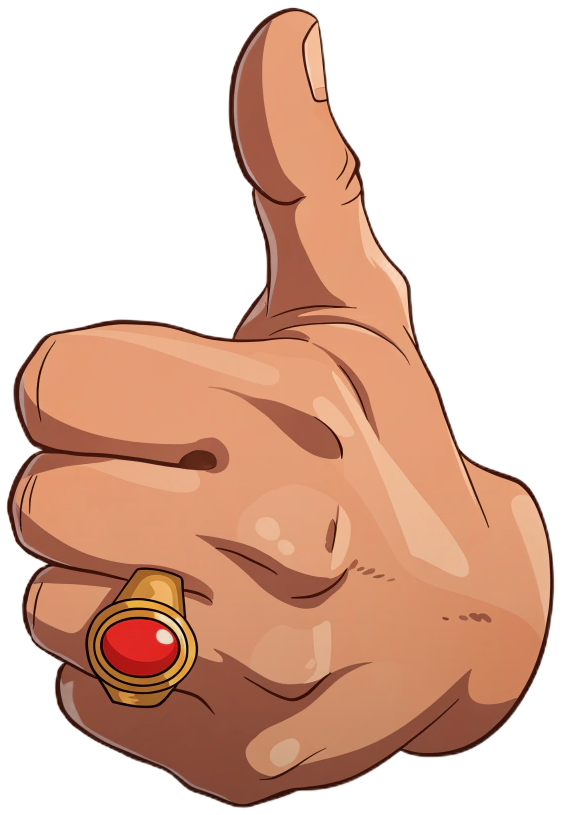
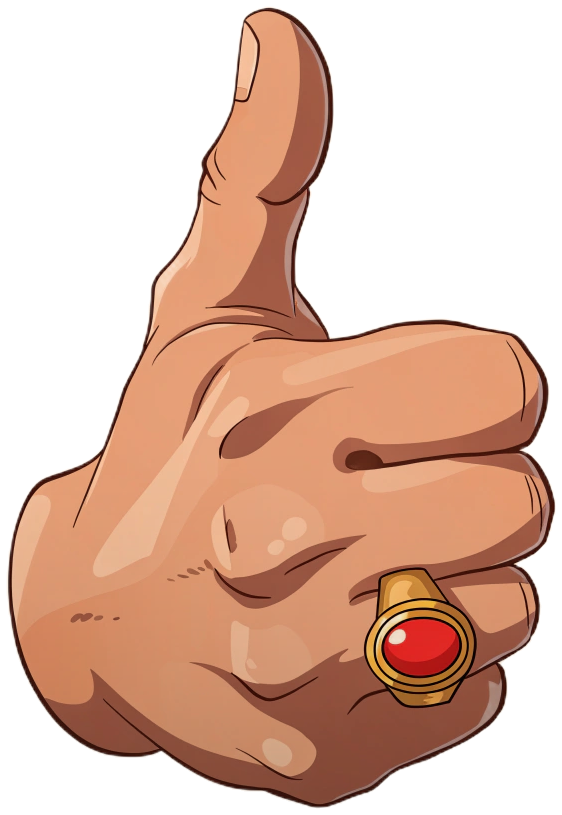
duimscene iets bijgewerkt

diff --git a/judge.js b/judge.js
@@ -9,16 +9,16 @@ const JUDGE = {
   think: 2200,      // ms vanaf de start tot het oordeel valt
   snap: 440,        // ms: duim slaat om
   detail: 800,      // ms na het oordeel: uitslag en knop verschijnen
-  // Twijfel: hoeken (graden) waar de duim langs gaat. -90 is opzij (hand in het verlengde van de arm), 0 omhoog, -180 omlaag.
-  waver: [-90, -64, -98, -124, -88, -70, -110, -96, -80, -95, -86, -90],
+  // Twijfel: hoeken (graden) waar de duim langs gaat. 90 is opzij met de duim naar binnen (naar Caesar), 0 omhoog, 180 omlaag.
+  waver: [90, 64, 98, 124, 88, 70, 110, 96, 80, 95, 86, 90],
   // De hand als afbeelding, in pixels van die afbeelding:
-  // pivot = de pols (daar draait de hand om en daar sluit de arm aan), tip = top van de duim (daar komen de deeltjes vandaan).
+  // pivot = midden van de vuist (daar draait de hand om; de arm eindigt daar, achter de vuist), tip = top van de duim (daar komen de deeltjes vandaan).
   // scale = scène-eenheden per pixel. Ontbreekt het bestand, dan valt het spel terug op de getekende hand.
-  hand: { src: 'assets/recraft free plan/hand.png', w: 562, h: 815, pivot: [460, 740], tip: [280, 8], scale: .18 },
+  hand: { src: 'assets/recraft free plan/hand.png', w: 562, h: 815, pivot: [285, 560], tip: [268, 7], scale: .2 },
   // De onderarm als afbeelding, in pixels van die afbeelding: wrist = midden van de pols, sleeve = midden van het
-  // mouwuiteinde. from/to = waar die twee in de scène moeten komen (bij de pols van de hand en bij Caesars schouder).
-  arm: { src: 'assets/recraft free plan/arm.png', wrist: [208.5, 521.7], sleeve: [593, 182], from: [176, 182], to: [250, 163] },
-  handAt: [175, 182],          // waar de pols in de scène zit (viewBox 480 × 320); de hand draait hieromheen
+  // mouwuiteinde. from/to = waar die twee in de scène moeten komen (achter het midden van de vuist en bij Caesars schouder).
+  arm: { src: 'assets/recraft free plan/arm.png', wrist: [208.5, 521.7], sleeve: [593, 182], from: [154, 188], to: [250, 163] },
+  handAt: [150, 190],          // midden van de vuist in de scène (viewBox 480 × 320); de hand draait hieromheen en bedekt zo altijd het einde van de arm
   shadowOffset: [5, 9],          // waar het midden van de vuist in de scène staat (viewBox 480 × 320)
   tipUp: [137, 70], tipDown: [163, 310]   // worden hieronder uit hand berekend
 };
@@ -88,15 +88,15 @@ function fillSceneCrowd() {
 function judgeStart() {
   fillSceneCrowd();
   const scene = $('scene');
-  handSet(rot(-90));
+  handSet(rot(90));
   scene.classList.remove('cheer', 'jeer');
   $('burst').replaceChildren();
   AR.judging = 'thinking';
   if (reduceMotion()) return;
   handAnimate([
-    { transform: 'translate(40px, 90px) scale(.7) ' + rot(-90), opacity: 0 },
-    { transform: 'translate(-4px, -6px) scale(1.03) ' + rot(-90), opacity: 1, offset: .7 },
-    { transform: 'translate(0, 0) scale(1) ' + rot(-90), opacity: 1 }
+    { transform: 'translate(40px, 90px) scale(.7) ' + rot(90), opacity: 0 },
+    { transform: 'translate(-4px, -6px) scale(1.03) ' + rot(90), opacity: 1, offset: .7 },
+    { transform: 'translate(0, 0) scale(1) ' + rot(90), opacity: 1 }
   ], { duration: JUDGE.rise, easing: 'cubic-bezier(.2,.8,.3,1)' });
   // Twijfelen: steeds sneller en kleiner, met een paar plagerige uitschieters naar boven en beneden.
   const w = JUDGE.waver, n = w.length - 1;
@@ -105,14 +105,14 @@ function judgeStart() {
 }
 
 function judgeVerdict(ok) {
-  const end = ok ? 0 : -180, over = ok ? 16 : -196;
+  const end = ok ? 0 : 180, over = ok ? -16 : 196;
   handSet(rot(end));
   AR.judging = ok ? 'up' : 'down';
   ok ? arenaCheer() : arenaJeer();
   if (reduceMotion()) return;
   handAnimate([
-    { transform: rot(-90) },
-    { transform: rot(-90 + (ok ? -10 : 10)), offset: .25 },          // even aanzetten
+    { transform: rot(90) },
+    { transform: rot(90 + (ok ? 10 : -10)), offset: .25 },          // even aanzetten
     { transform: rot(over), offset: .7, easing: 'ease-out' },
     { transform: rot(end) }
   ], { duration: JUDGE.snap, easing: 'cubic-bezier(.6,0,.3,1)' });

diff --git a/README.md b/README.md
@@ -80,22 +80,19 @@ Paard en wagen zijn gewone SVG's, te bewerken in Inkscape of Figma. Ze zijn van 
 
 ## Caesars oordeel aanpassen
 
-Het oordeel is een scène van voren: Caesar zit onscherp op zijn troon onder de tent in de keizersloge, met wachters, fakkels en publiek erachter. Zijn hand staat scherp op de voorgrond. Zijn onderarm wijst naar de kijker, dus het draaien van de hand is ook echt het draaien van zijn pols.
+Het oordeel is een scène van voren: Caesar zit onscherp op zijn troon onder de tent in de keizersloge, met wachters, fakkels en publiek erachter. Zijn hand staat groot en scherp op de voorgrond; de onderarm loopt naar zijn schouder en wordt daarheen onscherp.
 
 | Wat | Waar |
 |---|---|
-| De scène en de hand | Inline SVG `#scene` in `index.html`. De achtergrond zit in `#sceneBg` (onscherp via filter `#dof`), de hand in `#hand`. |
-| De hand als afbeelding | `assets/recraft free plan/hand.png`: een opgeschoonde, bijgesneden, gespiegelde (pols rechtsonder) en warmer gekleurde versie van een Recraft-asset, met een zachte schaduw onderaan de vuist ingebakken. Positie, draaipunt (midden van de vuist), duimtop en schaal staan in `JUDGE.hand` in `judge.js`. Vervang het bestand en pas die getallen aan om een andere hand te proberen. Ontbreekt het bestand, dan tekent het spel de oude SVG-hand (`#handDrawn`). De slagschaduw (`#handShadow`) is een wazige kopie die met de hand meedraait en steeds naar rechtsonder valt. |
-| De onderarm als afbeelding | `assets/recraft free plan/arm.png` (opgeschoond, bijgesneden, warmer gekleurd). Staat stil terwijl de hand draait en wordt naar Caesar toe onscherp. Afgesneden bij de armband, zodat de hand er in elke stand uit lijkt te komen. Pols- en mouwpunt in de afbeelding en hun plek in de scène staan in `JUDGE.arm`; judge.js rekent hoek en schaal zelf uit. |
-| Hoe onscherp de achtergrond is | `stdDeviation` van filter `#dof` in `index.html` |
-| Hoe onscherp Caesars hoofd is | `stdDeviation` van filter `#dofFace` (iets scherper dan de rest, zodat zijn gezicht leesbaar blijft) |
-| Huidtinten van de hand | Gradiënten `#gRoll`, `#gThumb` en `#gBack` in `index.html` |
-| Hoe lang Caesar twijfelt | `JUDGE.think` (ms) in `judge.js` |
-| Hoe de duim heen en weer gaat | `JUDGE.waver`: hoeken in graden, -90 is opzij (hand in het verlengde van de arm), 0 omhoog, -180 omlaag. De hand draait om de pols (`JUDGE.handAt`), zodat hij altijd aan de arm vast blijft. |
-| Snelheid van het omslaan | `JUDGE.snap` |
-| Wanneer uitslag en knop verschijnen | `JUDGE.detail` |
-| Juichen of joelen in de scène | CSS-animaties `crowdJump` en `crowdShake` in `style.css` |
-| Juichen of joelen in de arena | `arenaCheer()` en `arenaJeer()` in `arena.js` |
+| De hand | `assets/recraft free plan/hand.png`: opgeschoond, bijgesneden en warmer gekleurd, met een zachte schaduw onderaan de vuist; niet gespiegeld, dus een rechterhand. Draaipunt (midden van de vuist), duimtop en schaal staan in `JUDGE.hand`. |
+| De onderarm | `assets/recraft free plan/arm.png`, afgesneden bij de armband. Eindigt achter het midden van de vuist, zodat de hand het uiteinde in elke stand bedekt. Staat stil terwijl de hand draait. Pols- en mouwpunt en hun plek in de scène staan in `JUDGE.arm`; judge.js rekent hoek en schaal zelf uit. |
+| Hoe de duim heen en weer gaat | `JUDGE.waver`: hoeken in graden, 90 is opzij met de duim naar binnen (naar Caesar), 0 omhoog, 180 omlaag. De hand draait om het midden van de vuist (`JUDGE.handAt`). |
+| Slagschaduw | `#handShadow`: een wazige kopie die meedraait en steeds naar rechtsonder valt |
+| Timing | `JUDGE.think`, `JUDGE.snap`, `JUDGE.detail` (ms) |
+| Hoe onscherp de achtergrond en Caesars hoofd zijn | `stdDeviation` van filters `#dof` en `#dofFace` in `index.html` |
+| Juichen of joelen | CSS-animaties `crowdJump` en `crowdShake` (scène), `arenaCheer()` en `arenaJeer()` (arena) |
+
+`limb.png` (arm en hand in één, van opzij) is geprobeerd en weer teruggedraaid; het bestand staat nog in de map. Ontbreken `hand.png` of `arm.png`, dan tekent het spel de oude SVG-hand en -arm.
 
 Met *verminderde beweging* aan in het besturingssysteem slaat het spel de animaties over en toont het direct de uitslag.
 
